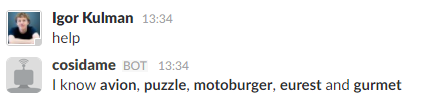
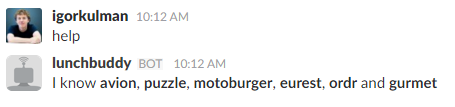
* adding info about Ordr.cz

Changed region(s): [[0.0, 0.51, 0.9788, 0.93], [0.0, 0.06, 0.4282, 0.48]]

diff --git a/README.md b/README.md
@@ -25,6 +25,10 @@ If you write to Lunchbuddy a name of a configured restaurant, it will respond wi
 
 ![Showing daily menu](https://raw.githubusercontent.com/igorkulman/lunchbuddy-bot/master/images/menu.png)
 
+### Getting started
+
+Lunchbuddy contains a few restaurants and delivery services to get you started and show you how to use [Zomato API](https://developers.zomato.com/api?lang=en), how to scrape web ([Avion58](http://avion58.cz/), [Motoburger](http://www.motoburger.cz/)) or how to parse JSON data ([Ordr.cz](https://www.ordr.cz/)).
+
 ### Adding a new restaurant
 
 The easiest way to add a new restaurant is to add a restaurant available in Zomato. You just need the `id` of the restaurant
